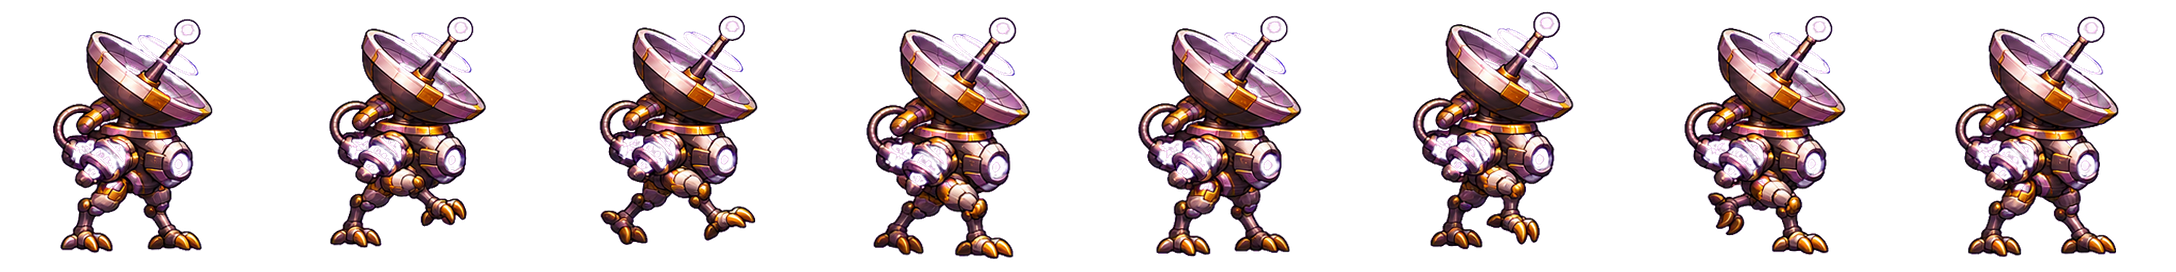
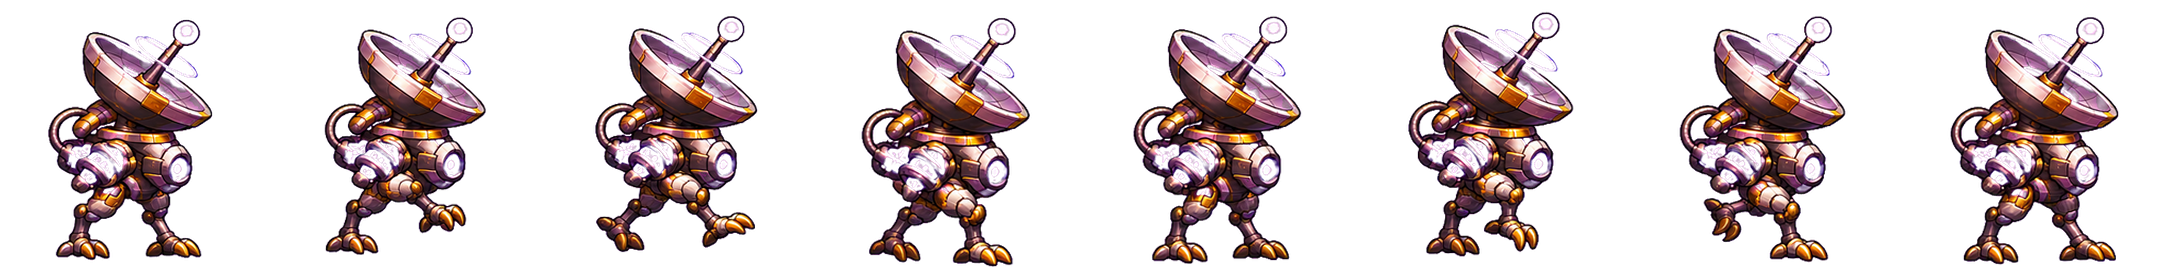
thap huong3: rap jammer sau (raw_p6_jammer_back)
Claude-Session: https://claude.ai/code/session_016VkJ26f22ubevy4EnREsEV

diff --git a/thap/js/trum.js b/thap/js/trum.js
@@ -18,7 +18,7 @@ const TRUM_MOI = {
 // trùm mới ĐÃ có ảnh ChatGPT riêng (trum_<id>_8.png…) — thêm id khi ảnh ráp xong
 // ↓ 5 dòng dưới do tools/thap-cat-p6-trum.py tự ghi theo ảnh có trong assets/ (đừng sửa tay)
 const TRUM_ANH = new Set(['hive', 'jammer']); // trum_<id>_8.png (đi trước) — bỏ ảnh mượn
-const TRUM_HUONG = new Set(['hive_side', 'hive_back', 'jammer_side']); // 'id_side' / 'id_back' — dải hướng nhìn ngang/sau
+const TRUM_HUONG = new Set(['hive_side', 'hive_back', 'jammer_side', 'jammer_back']); // 'id_side' / 'id_back' — dải hướng nhìn ngang/sau
 const TRUM_FX = new Set([]); // fx_trum_<id>.png — dải hiệu ứng chiêu 16 khung
 const TRUM_ATK = new Set(['hive']); // trum_<id>_atk_16.png — dải ĐÁNH 16 khung (thân trùm tung chiêu, nhìn về bàn) — quaianim.js phát lúc báo chiêu
 const TRUM_CHANDUNG = new Set(['hive', 'jammer', 'prism', 'twin_core', 'patcher']); // trum_<id>_portrait.png — băng giới thiệu / màn mở trận dùng chân dung

diff --git a/docs/demo-hop-tuong/tuvan/huong3/BANG.md b/docs/demo-hop-tuong/tuvan/huong3/BANG.md
@@ -17,7 +17,7 @@
 | nightmare | trùm cũ | ✅ | ⏳ ↔ | ↔ | ⏳ ↔ | ✅ khung 3 (dải 4 cũ) |
 | octopus | trùm cũ | ✅ | ⏳ ↔ | ↔ | ⏳ ↔ | ✅ khung 3 (dải 4 cũ) |
 | hive | trùm mới | ✅ | ✅ | ⇋ | ✅ | ✅ dải 16 |
-| jammer | trùm mới | ✅ | ✅ | ⇋ | ⏳ ↔ | ⏳ (q_p6 fx) |
+| jammer | trùm mới | ✅ | ✅ | ⇋ | ✅ | ⏳ (q_p6 fx) |
 | prism | trùm mới | ⏳ mượn janus | ⏳ ↔ | ↔ | ⏳ ↔ | ⏳ (q_p6 fx) |
 | twin_core | trùm mới | ⏳ mượn joker_king | ⏳ ↔ | ↔ | ⏳ ↔ | ⏳ (q_p6 fx) |
 | patcher | trùm mới | ⏳ mượn octopus | ⏳ ↔ | ↔ | ⏳ ↔ | ⏳ (q_p6 fx) |
